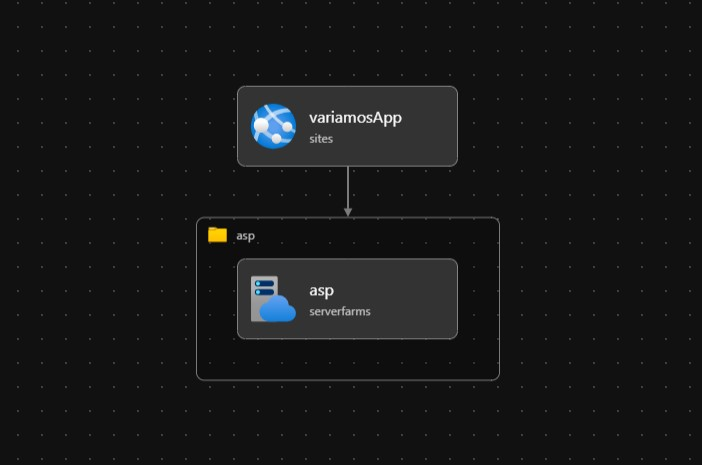
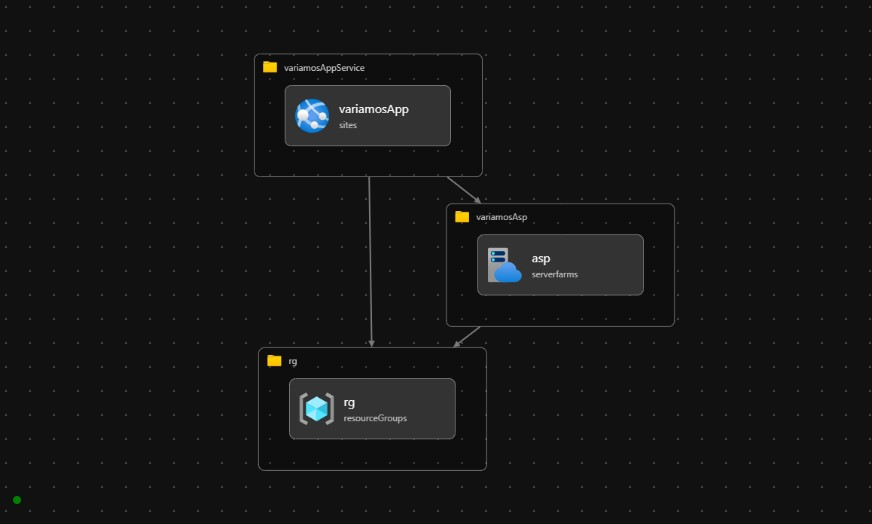
Refactor grouping resources in modules

diff --git a/IaC/README.MD b/IaC/README.MD
@@ -7,9 +7,8 @@
 - Azure Subscription
 - New Resource Group
 
-## Deploy variamos to Azure 
+## Deploy variamos to Azure
 
 To deploy variamosApp execute from PowerShell the Next command:
 
-    .\variamosAppDeployment.ps1 -deploymentName 'VariamosAppDeploy' -templateFile 'variamosApp.bicep' -appName 'variamosapp' -ppKind 'app,linux,container' -aspName 'variamosasp' -subscriptionName 'BizSpark-Applipets' -resourceGroupName 'rglabvariamos3000' -location 'westus'
-
+    .\variamos.ps1 -deploymentName 'VariamosAppDeploy' -location 'westus' -templateFile 'variamos.bicep' -variamosAppName 'variamosapp' -appKind 'app,linux,container' -aspName 'variamosasp' -subscriptionName 'BizSpark-Applipets' -resourceGroupName 'rglabvariamos3000' -aspKind 'linux'
